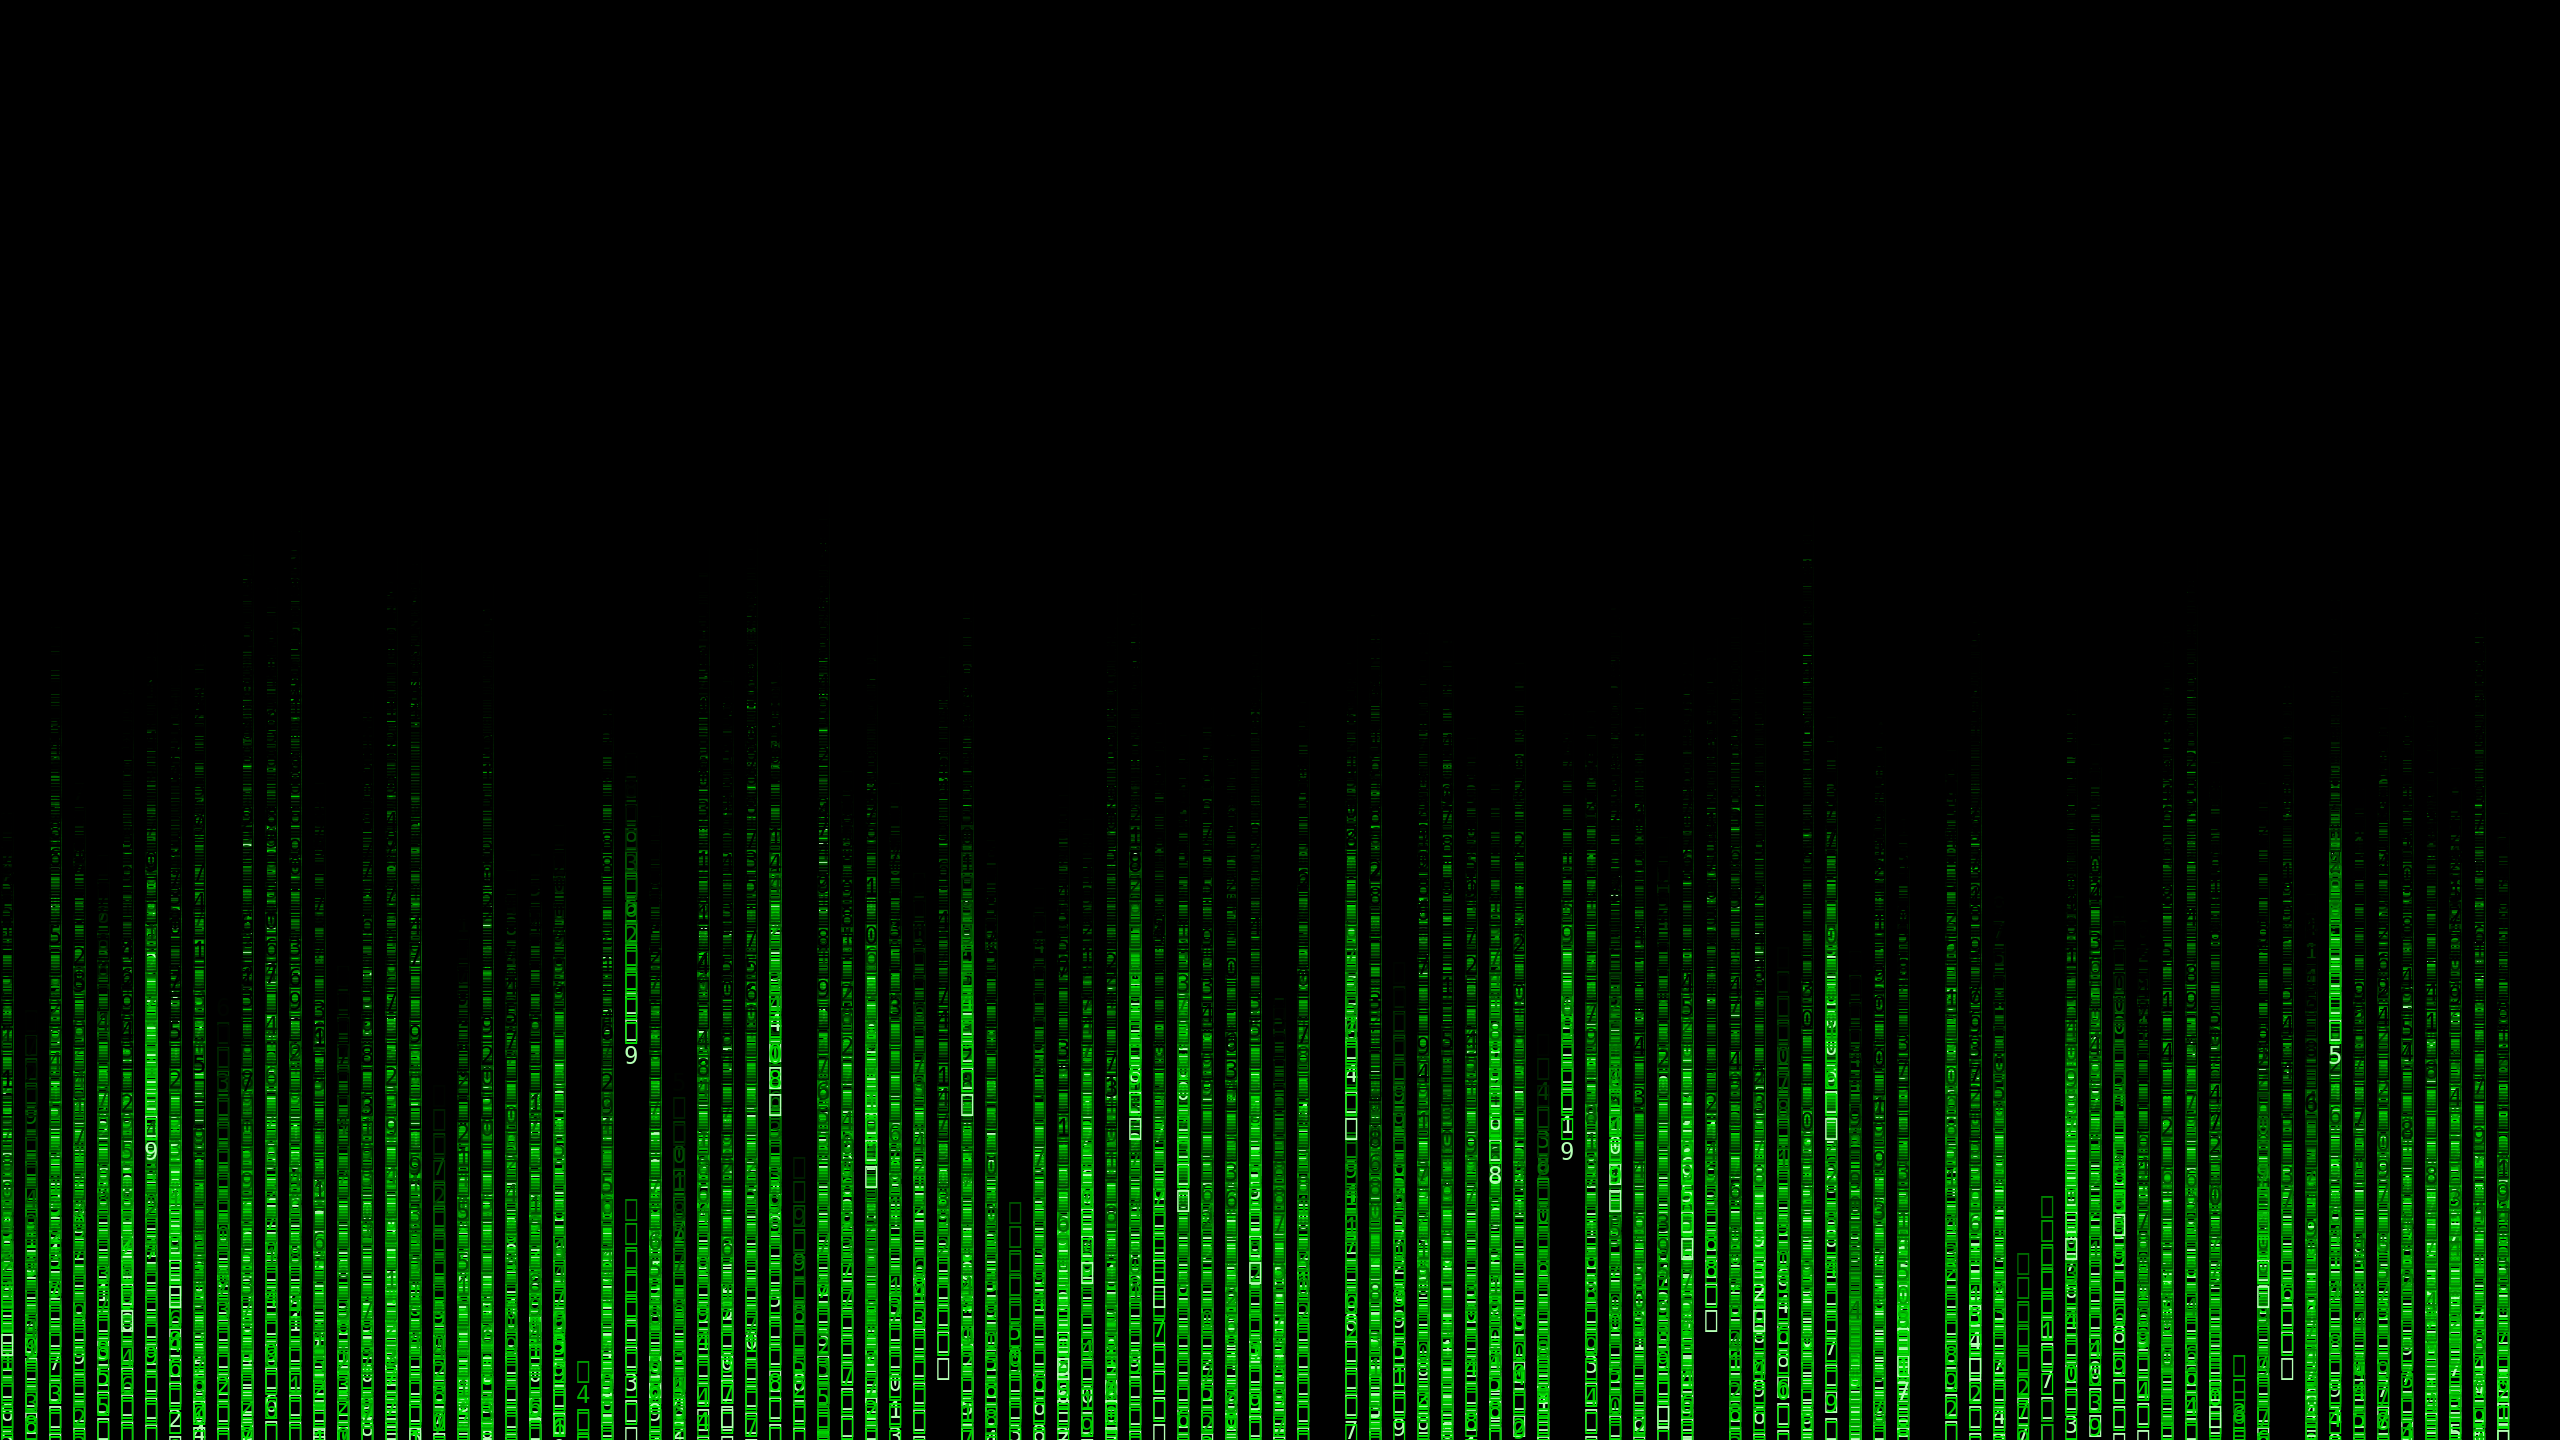
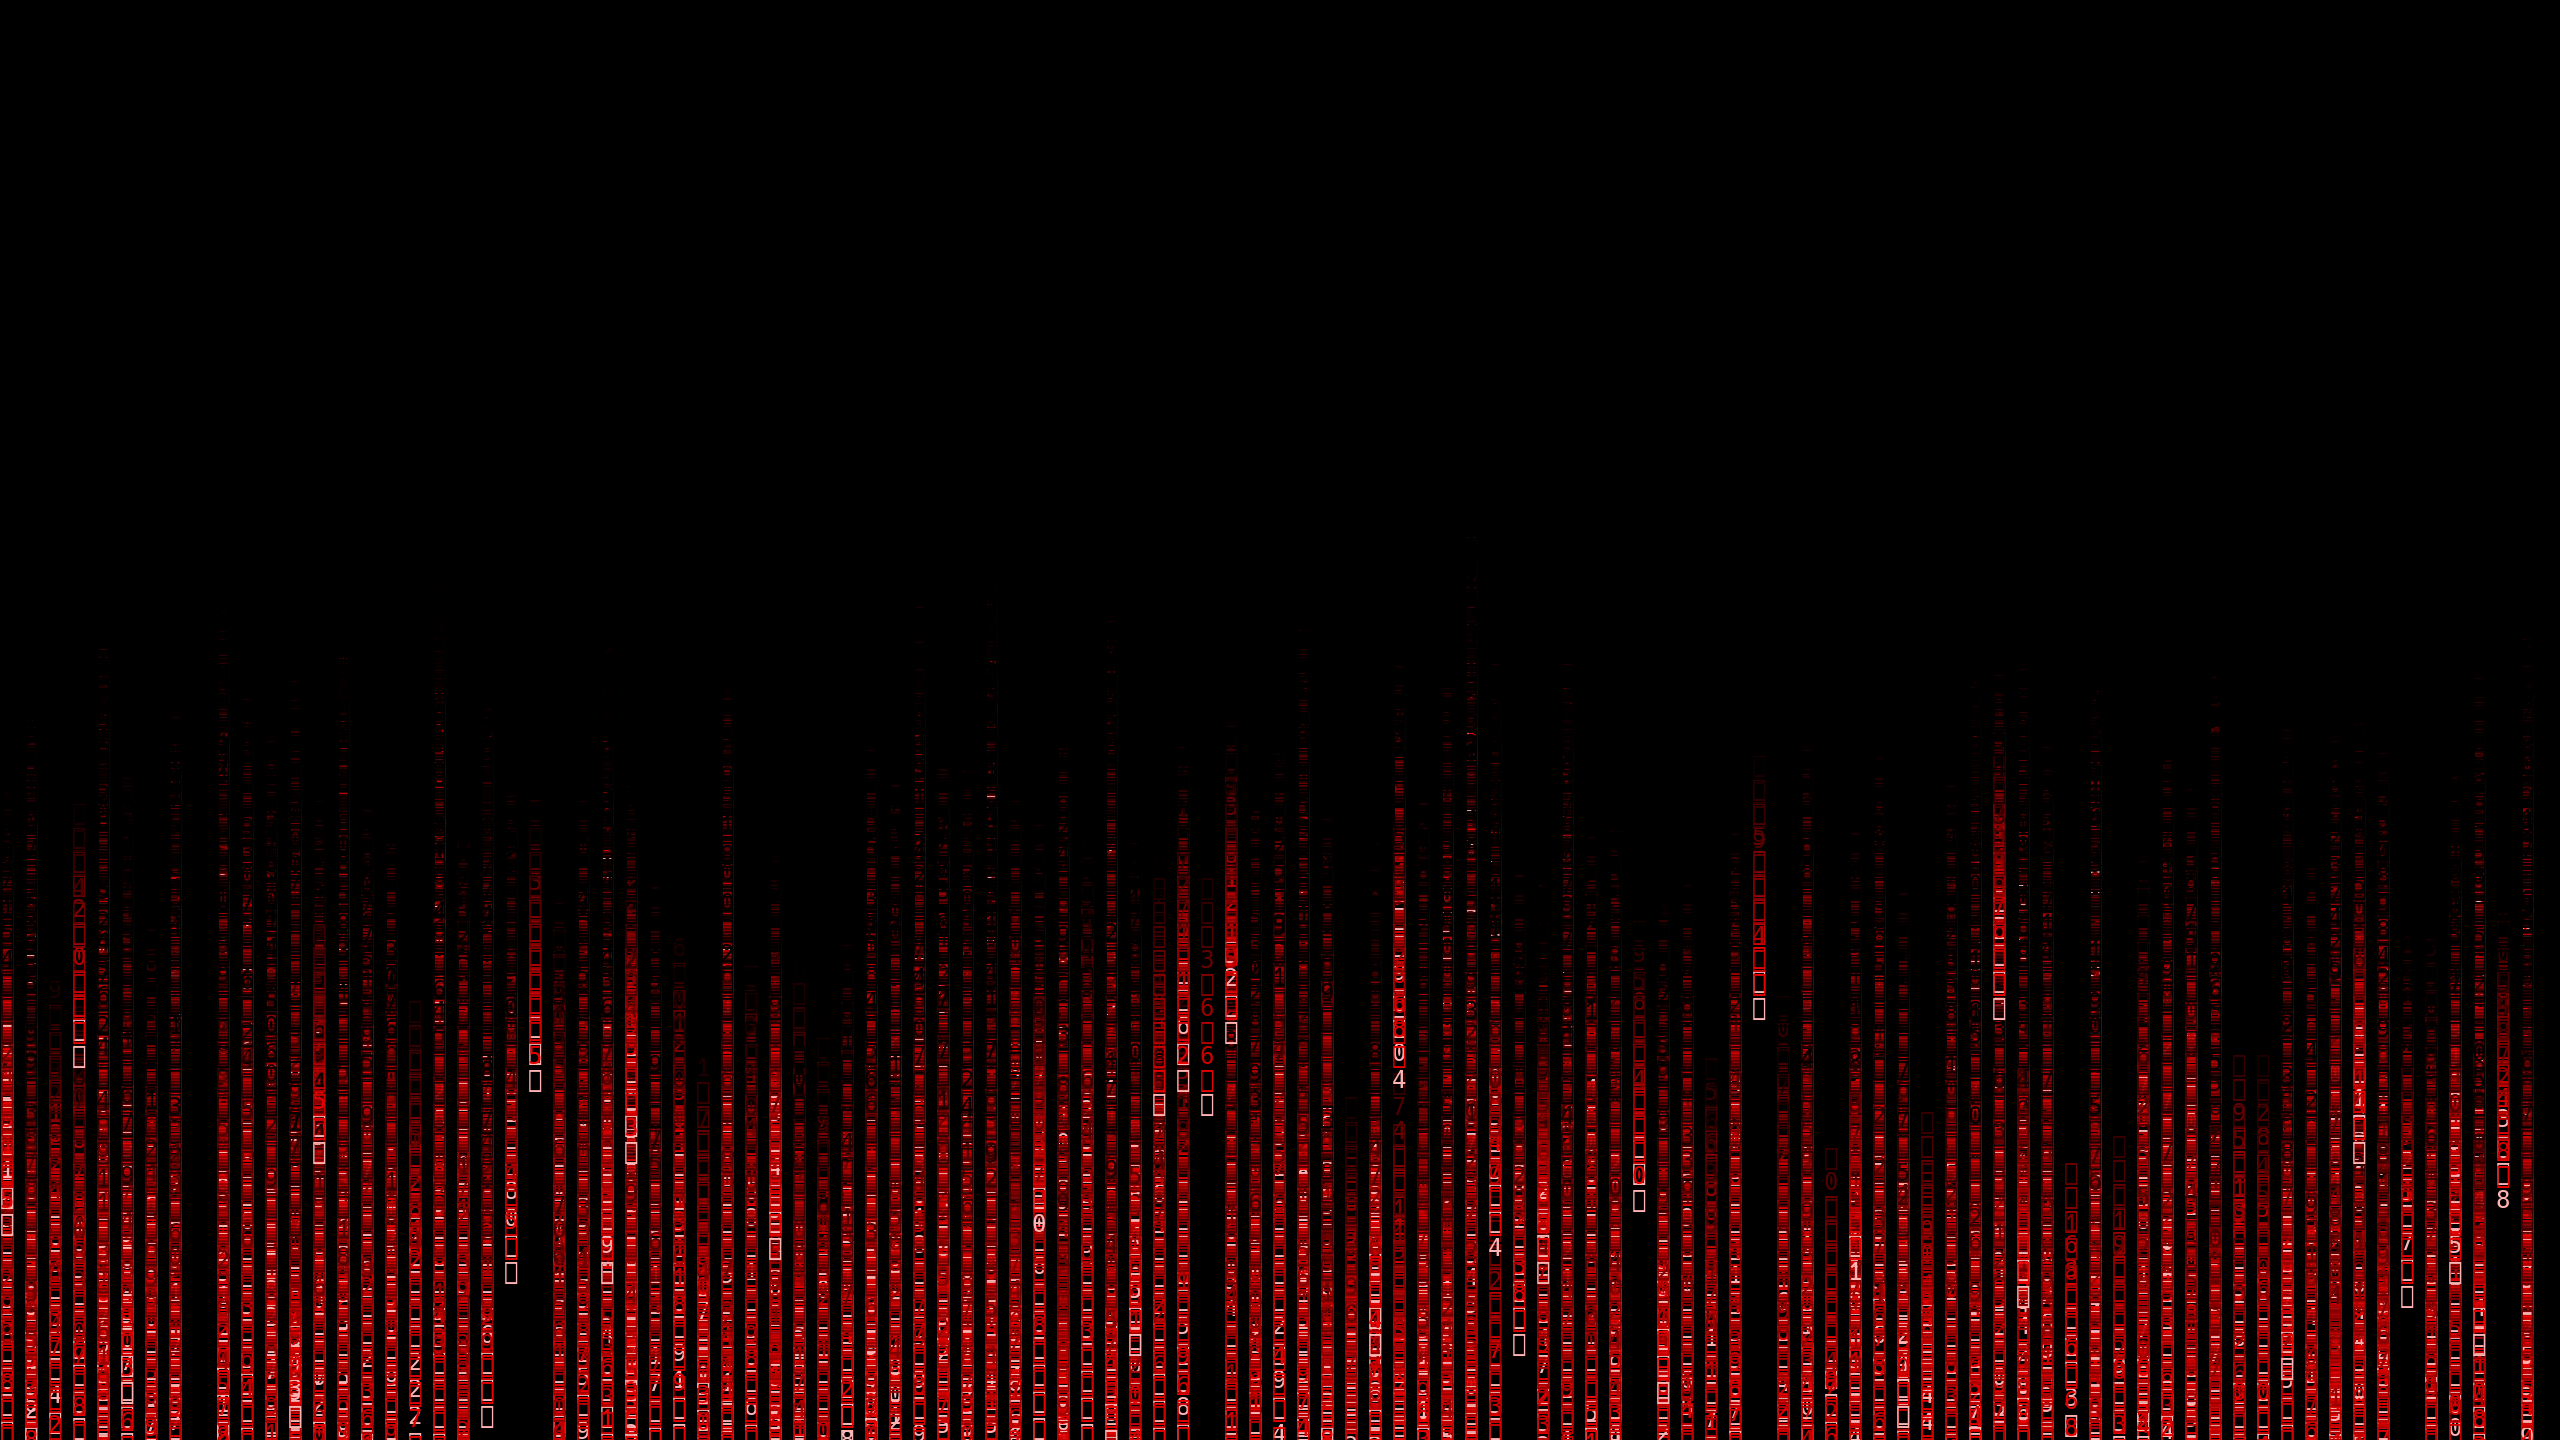
Red theme: all green→red across all configs

Changed region(s): [[0.0, 0.5, 1.0, 1.0], [0.1562, 0.5312, 0.1875, 0.5625]]

diff --git a/.config/waybar/style.css b/.config/waybar/style.css
@@ -2,45 +2,45 @@
 @define-color no1 #000000;
 @define-color no2 #001000;
 
-@define-color re0 #00FF00;
-@define-color re1 #005500;
-@define-color re2 #002200;
+@define-color re0 #FF0000;
+@define-color re1 #550000;
+@define-color re2 #220000;
 
-@define-color gr0 #00CC00;
-@define-color gr1 #004400;
-@define-color gr2 #001800;
+@define-color gr0 #CC0000;
+@define-color gr1 #440000;
+@define-color gr2 #180000;
 
-@define-color ye0 #55FF55;
-@define-color ye1 #003300;
-@define-color ye2 #001800;
+@define-color ye0 #FF5555;
+@define-color ye1 #330000;
+@define-color ye2 #180000;
 
-@define-color bl0 #00AA00;
-@define-color bl1 #002200;
+@define-color bl0 #AA0000;
+@define-color bl1 #220000;
 @define-color bl2 #001000;
 
-@define-color vi0 #00FF55;
-@define-color vi1 #003300;
-@define-color vi2 #001800;
+@define-color vi0 #FF0055;
+@define-color vi1 #330000;
+@define-color vi2 #180000;
 
-@define-color cy0 #00DD00;
-@define-color cy1 #002200;
+@define-color cy0 #DD0000;
+@define-color cy1 #220000;
 @define-color cy2 #001000;
 
-@define-color wh0 #00FF00;
-@define-color wh1 #005500;
-@define-color wh2 #002200;
+@define-color wh0 #FF0000;
+@define-color wh1 #550000;
+@define-color wh2 #220000;
 
 @define-color me0 #006600;
-@define-color me1 #002200;
+@define-color me1 #220000;
 @define-color me2 #001000;
 
-@define-color or0 #00FF00;
-@define-color or1 #005500;
-@define-color or2 #002200;
+@define-color or0 #FF0000;
+@define-color or1 #550000;
+@define-color or2 #220000;
 
-@define-color pi0 #00FF55;
-@define-color pi1 #004400;
-@define-color pi2 #002200;
+@define-color pi0 #FF0055;
+@define-color pi1 #440000;
+@define-color pi2 #220000;
 
 * {
 	font-family: Hack Nerd Font;

diff --git a/.config/swaync/style.css b/.config/swaync/style.css
@@ -6,19 +6,19 @@
 }
 
 @define-color no0 #000000;
-@define-color re0 #00FF00;
-@define-color re1 #005500;
-@define-color re2 #002200;
-@define-color gr0 #00CC00;
-@define-color gr2 #003300;
-@define-color gr0tr #00FF0040;
-@define-color ye0 #00CC00;
-@define-color ye2 #002200;
-@define-color bl0 #00AA00;
-@define-color bl2 #002200;
-@define-color cy0 #00FF00;
-@define-color cy2 #002200;
-@define-color wh0 #00AA00;
+@define-color re0 #FF0000;
+@define-color re1 #550000;
+@define-color re2 #220000;
+@define-color gr0 #CC0000;
+@define-color gr2 #330000;
+@define-color gr0tr #FF000040;
+@define-color ye0 #CC0000;
+@define-color ye2 #220000;
+@define-color bl0 #AA0000;
+@define-color bl2 #220000;
+@define-color cy0 #FF0000;
+@define-color cy2 #220000;
+@define-color wh0 #AA0000;
 @define-color tr0 rgba(0, 0, 0, 0.05);
 
 .widget-dnd label,
@@ -32,7 +32,7 @@
 	min-width: 35px;
 	min-height: 15px;
 	background: @re2;
-	color: #1DED83FF;
+	color: #FF3333FF;
 }
 
 .widget-dnd switch slider {

diff --git a/.config/firefoxhome.html b/.config/firefoxhome.html
@@ -8,7 +8,7 @@
   * { margin: 0; padding: 0; box-sizing: border-box; }
   body {
     background: #000000;
-    color: #00FF00;
+    color: #FF0000;
     font-family: 'Hack', 'Courier New', monospace; height: 100vh; display: flex;
     flex-direction: column;
     align-items: center;
@@ -18,12 +18,12 @@
     font-size: 6em;
     font-weight: bold;
     letter-spacing: 8px;
-    text-shadow: 0 0 10px #00FF00, 0 0 20px #00FF0040;
+    text-shadow: 0 0 10px #FF0000, 0 0 20px #FF000040;
   }
   #date {
     font-size: 1.2em;
     margin-top: 10px;
-    color: #00AA00;
+    color: #AA0000;
     letter-spacing: 4px;
   }
   #prompt {
@@ -35,13 +35,13 @@
   }
   #prompt::before {
     content: '>_ SYSTEM';
-    color: #005500;
+    color: #550000;
   }
   #cursor {
     display: inline-block;
     width: 10px;
     height: 1.2em;
-    background: #00FF00;
+    background: #FF0000;
     margin-left: 5px;
     animation: blink 1s step-end infinite;
   }
@@ -52,8 +52,8 @@
     margin-top: 30px;
     background: transparent;
     border: none;
-    border-bottom: 1px solid #005500;
-    color: #00FF00;
+    border-bottom: 1px solid #550000;
+    color: #FF0000;
     font-family: inherit;
     font-size: 1em;
     width: 400px;
@@ -62,7 +62,7 @@
     outline: none;
   }
   #search:focus {
-    border-bottom-color: #00FF00;
+    border-bottom-color: #FF0000;
   }
   .links {
     margin-top: 40px;
@@ -70,13 +70,13 @@
     gap: 40px;
   }
   .links a {
-    color: #005500;
+    color: #550000;
     text-decoration: none;
     font-size: 0.9em;
     letter-spacing: 2px;
   }
   .links a:hover {
-    color: #00FF00;
+    color: #FF0000;
   }
 </style>
 </head>